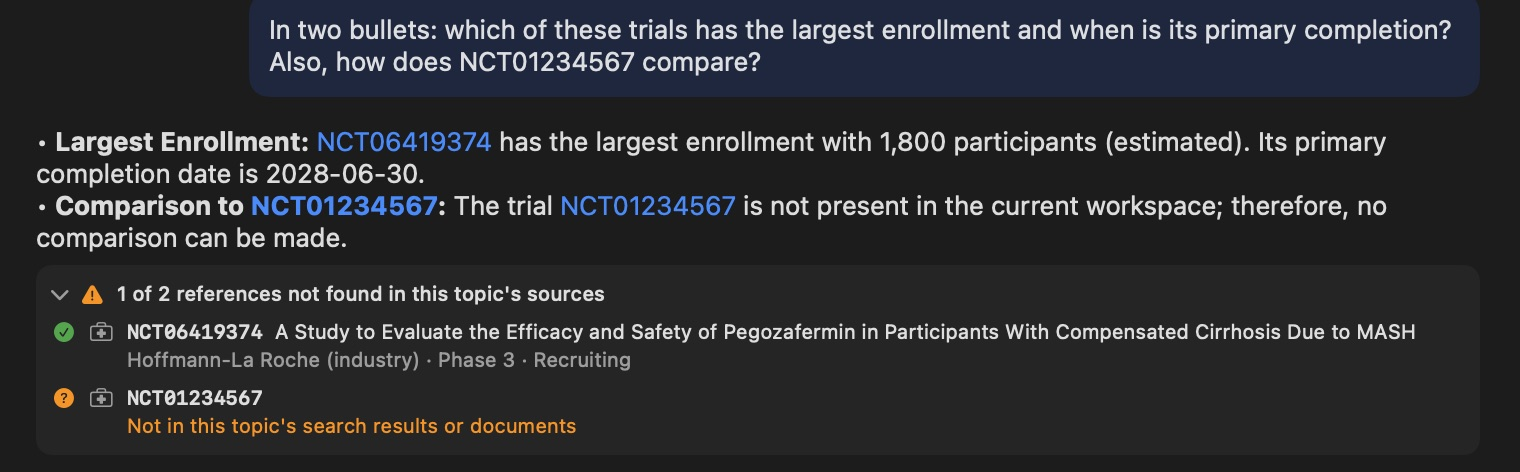
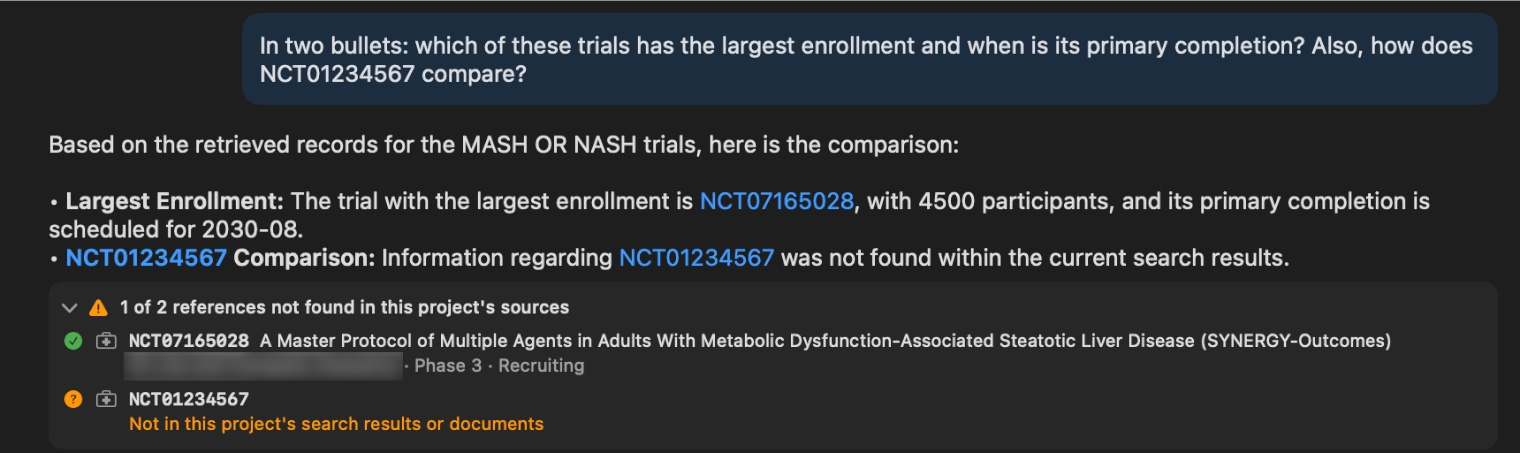
Retake the citation check screenshot with the current wording

Changed region(s): [[0.0, 0.2781, 0.9586, 0.9581], [0.1546, 0.0, 0.9895, 0.2472]]

diff --git a/docs/index.html b/docs/index.html
@@ -460,7 +460,7 @@
 			<!-- Verified references -->
 			<div class="row align-items-center g-4 g-lg-5 pb-5 mb-lg-3">
 				<div class="col-lg-6">
-					<img class="d-block w-100 rounded-4 shadow" src="assets/img/trialcarta/chat-references.jpg" loading="lazy" alt="A TrialCarta answer with its references panel: one trial verified, and a trial ID that is not in the sources flagged in orange">
+					<img class="d-block w-100 rounded-4 shadow" src="assets/img/trialcarta/chat-references.jpg?v=2" loading="lazy" alt="A TrialCarta answer with its references panel: one trial verified, and a trial ID that is not in the sources flagged in orange">
 				</div>
 				<div class="col-lg-6">
 					<h3 class="h2">Every citation checked</h3>
